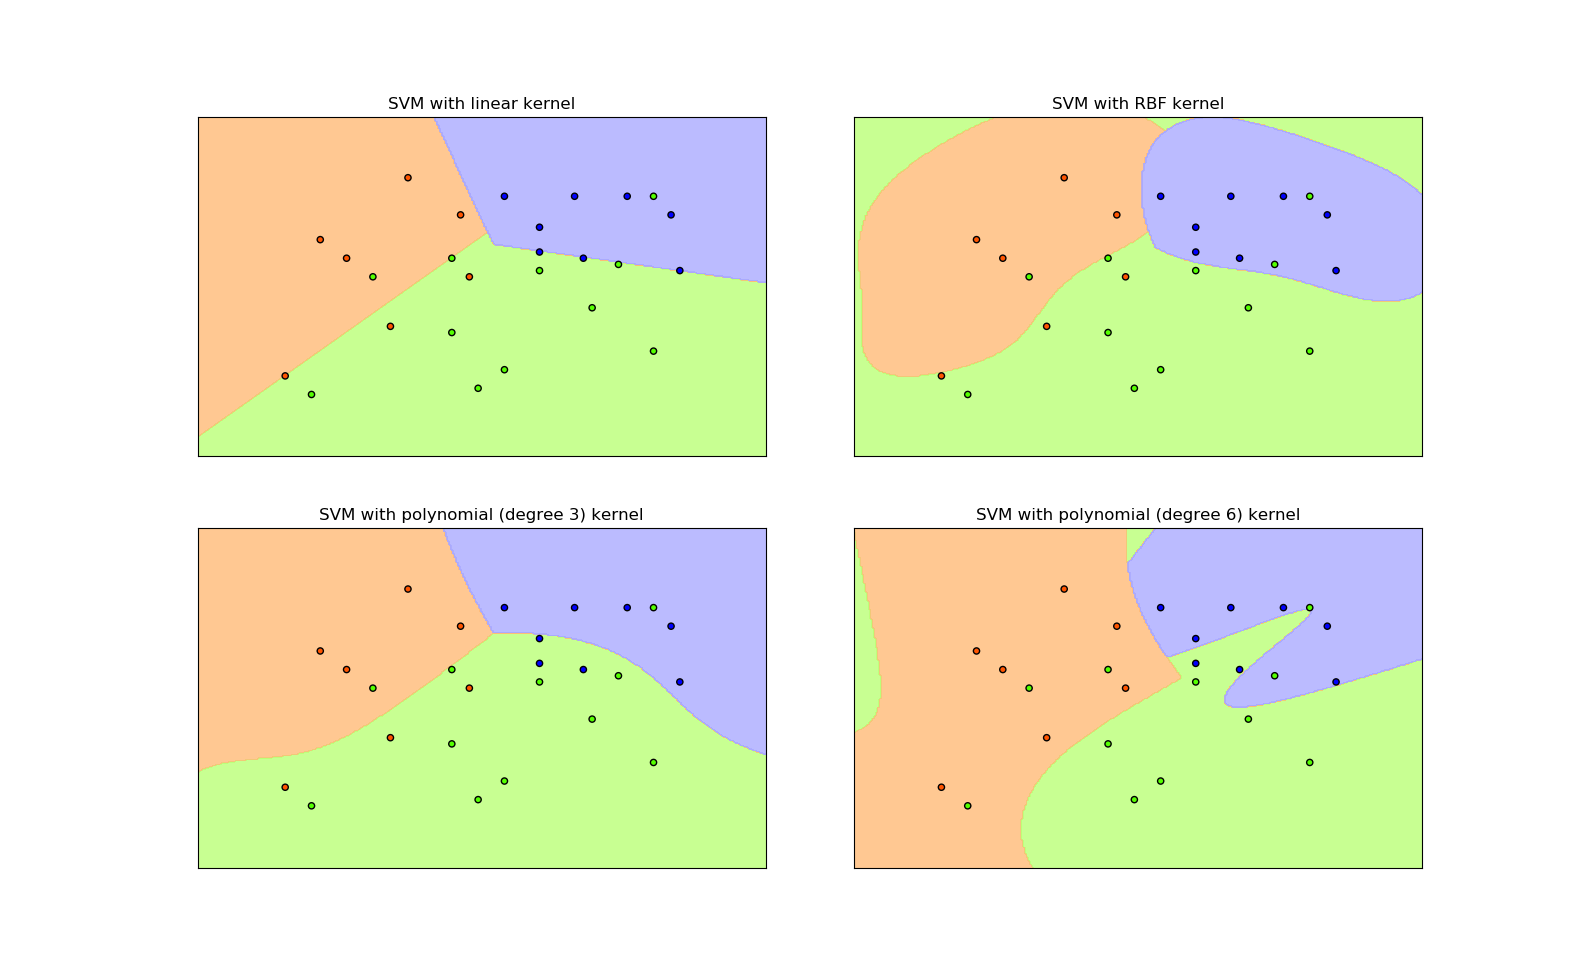
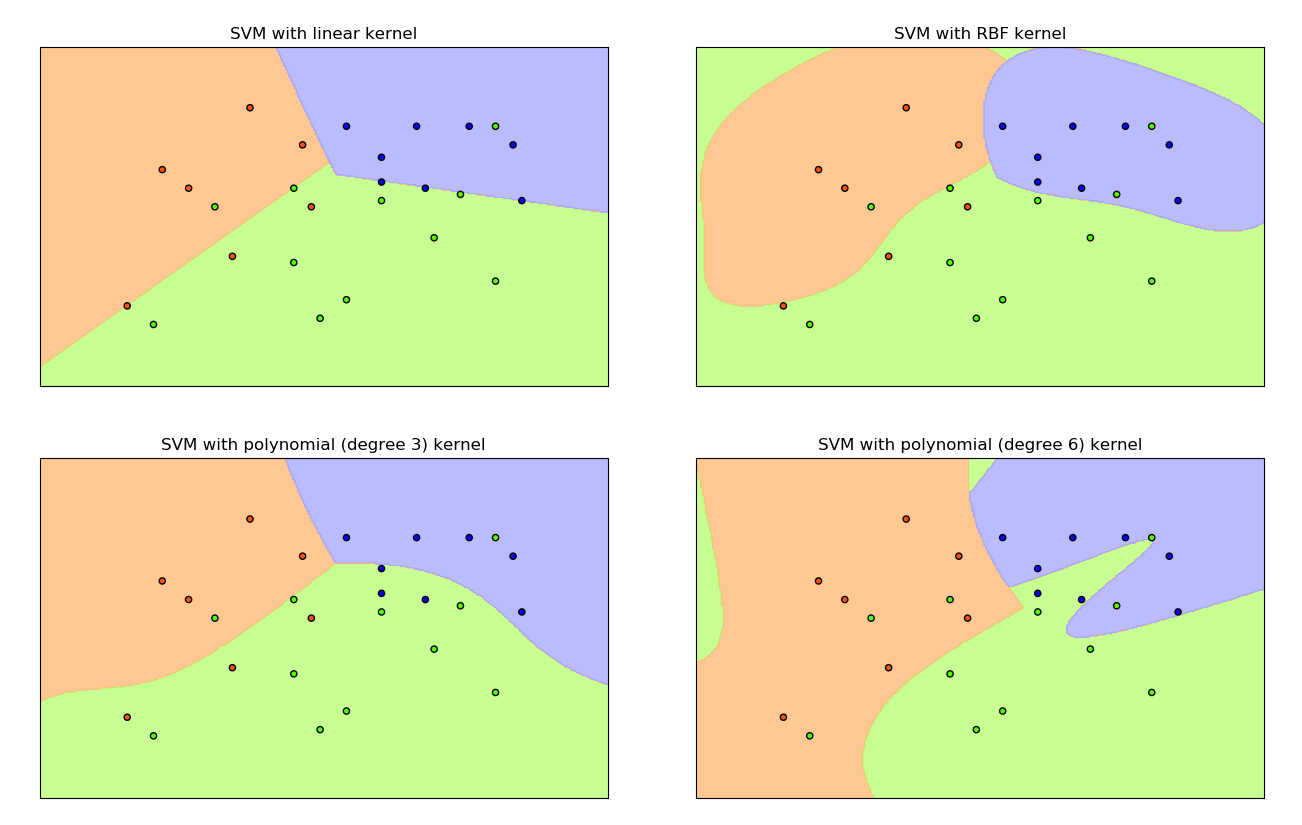
[WIP] minor

diff --git a/lecture-social-signal-processing/social-signal-processing.tex b/lecture-social-signal-processing/social-signal-processing.tex
@@ -1493,9 +1493,9 @@ Let's experiment\ldots{} Install Weka
 
 \end{frame}
 
-\begin{frame}{Comparision of kernel function}
+\begin{frame}{Comparison of kernel functions}
     \begin{center}
-        \includegraphics[width=0.8\linewidth]{svm_comparison}
+        \includegraphics[width=\linewidth]{svm_comparison}
     \end{center}
 \end{frame}
 
